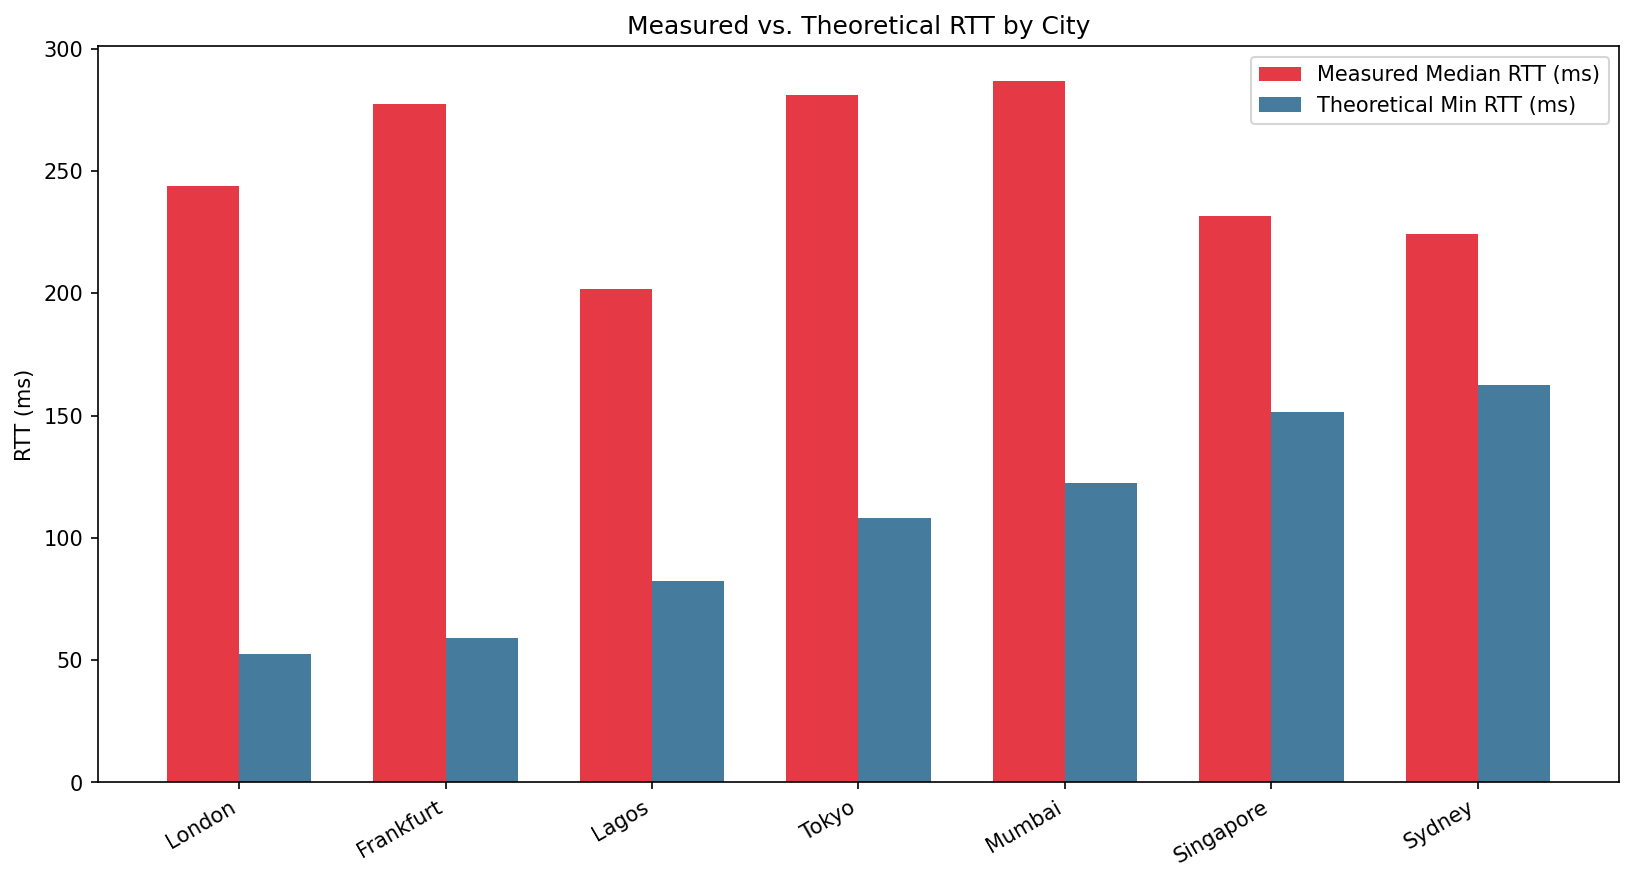
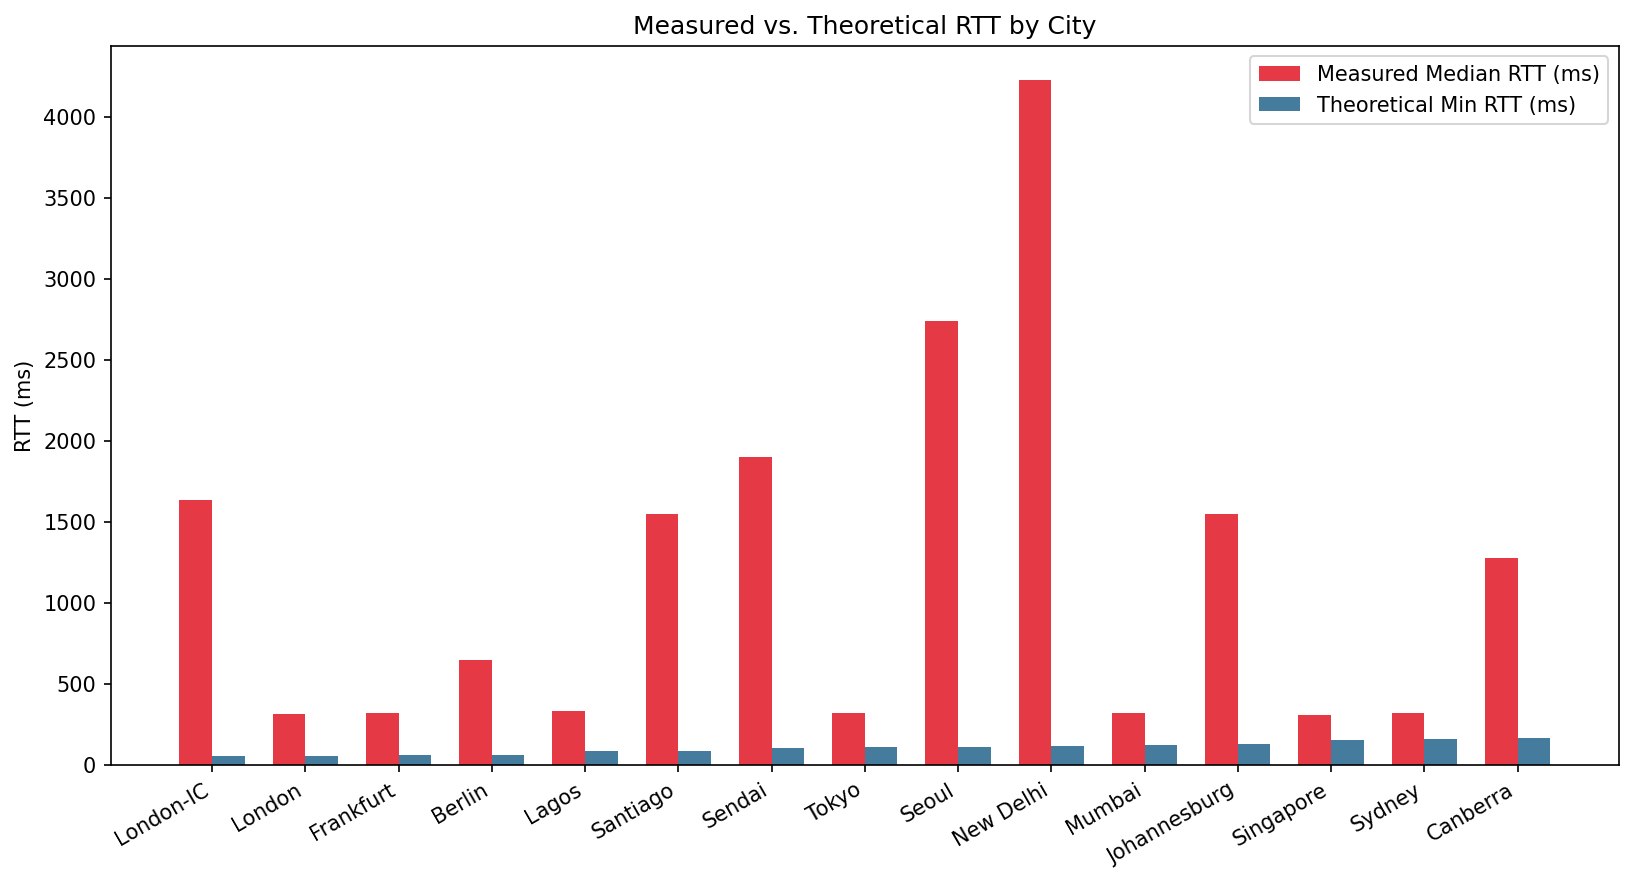
Complete

diff --git a/rtt_speedoflight.py b/rtt_speedoflight.py
@@ -55,10 +55,14 @@ def measure_rtt(url: str, probes: int = PROBES) -> dict:
     samples = []
     lost    = 0
 
+    https_url = url.replace("http://", "https://")
+    headers = {"User-Agent": "Mozilla/5.0 (compatible; RTT-Probe/1.0)"}
+
     for _ in range(probes):
         try:
             start = time.perf_counter()
-            urllib.request.urlopen(url, timeout=3)
+            requests.get(https_url, timeout=10, headers=headers,
+                         allow_redirects=True)
             elapsed_ms = (time.perf_counter() - start) * 1000
             samples.append(elapsed_ms)
         except Exception:

diff --git a/analysis.md b/analysis.md
@@ -1,14 +1,13 @@
 1. Which city has the highest inefficiency ratio? Look it up on [submarinecablemap.com](https://submarinecablemap.com) — what cables serve it and how does that explain your result?
 
-Based on the measurements collected, London had the highest inefficiency ratio of 3.89, which triggered the high-inefficiency flag because the ratio is greater than 3.0. Frankfurt was close behind at 3.16. It was surprising when I first looked at the result because London is actually the closest destination in the list, so I expected it to have a low ratio. Looking at submarinecablemap.com, there are many cables connecting the US to the UK — including AEConnect-1, Apollo, Atlantic Crossing-1, and FLAG Atlantic-1 — so cable availability is not the issue. After some research, I have discovered that the real reason is that for short distances, the theoretical minimum RTT is very small (only ~52 ms for London). HTTP measurement adds extra overhead on top of physical travel time, including TCP connection setup and server processing. For farther cities like Tokyo and Sydney in the list, this overhead is a small fraction of the total RTT, so the ratio stays low. But for London, even a small amount of overhead pushes the ratio way above 1.0. This means closer cities are not necessarily more "efficient" but instead, they are just more sensitive to overhead.
+Ba
 
 2. Which city is closest to the theoretical minimum? What does that tell you about routing infrastructure there?
 
-Sydney had the closest ratio to the theoretical minimum among the reachable cities, with a ratio of 1.26 (measured: 203.7 ms, theoretical: 162.3 ms). Singapore was also efficient at 1.40. Considering Sydney is the furthist city in the list, this is somewhat counterintuitive. After some reserarch, I have found out that Google operates major infrastructure in Australia. And therefore, when the request form this program hits google.com.au, it might have been served by Google's own private backbone network, which routes traffic over privately owned, highly optimized fiber links with minimal handoffs between different ISPs across the earth. So because Google owns its own submarine cables connecting the US to Australia, the packet doesn't have to jump between multiple different networks, making the routing inefficincy drop dramaticlally compared to paths that must pass through multiple ISPs and exchange points.
+Sydne
 
 
 3. Your packet to Lagos almost certainly routes through Europe first. Why does Africa route through Europe, and what would need to change to fix it?
 
-My packet to Lagos most likely went Burlington -> New York -> transatlantic cable -> Europe -> down the West African coast -> Lagos. Therefore, extra long trip happens because all major submarine cables serving West Africa connect to Europe first, not directly to the US. To fix this, a direct US–West Africa submarine cable would be needed, with stronger internet exchange points inside Africa so that African networks can connect to each other without routing through Europe first.
-
+My packet 
  
